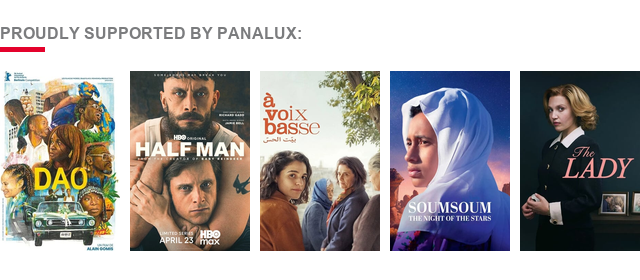
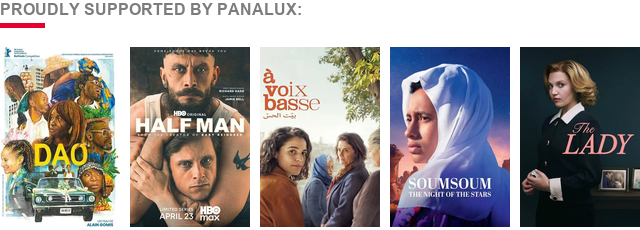
Remove top/bottom padding (320×115)

diff --git a/banner/compositor.py b/banner/compositor.py
@@ -125,7 +125,7 @@ def compose(credits: List[Credit]) -> Image.Image:
     font_supporting = _load_font(FONT_BOLD_CANDIDATES, 8)
     text = "PROUDLY SUPPORTED BY PANALUX:"
     text_x = 0  # flush with banner's left edge (matches edge-to-edge posters)
-    text_y_display = 12
+    text_y_display = 0  # flush with top edge — no top padding
     text_y = text_y_display * SCALE
     draw.text((text_x, text_y), text, font=font_supporting, fill=COLOR_TEXT)
 

diff --git a/banner/config.py b/banner/config.py
@@ -14,7 +14,7 @@ SOURCE_URL = "https://www.panavision.com/highlights/credits?divisions=_panalux"
 CLICK_THROUGH_URL = "https://www.panavision.com/highlights/credits?divisions=_panalux"
 
 # Banner dimensions — matches the 320px-wide email signature table
-DISPLAY_W, DISPLAY_H = 320, 140
+DISPLAY_W, DISPLAY_H = 320, 115
 SCALE = 2
 W, H = DISPLAY_W * SCALE, DISPLAY_H * SCALE
 
